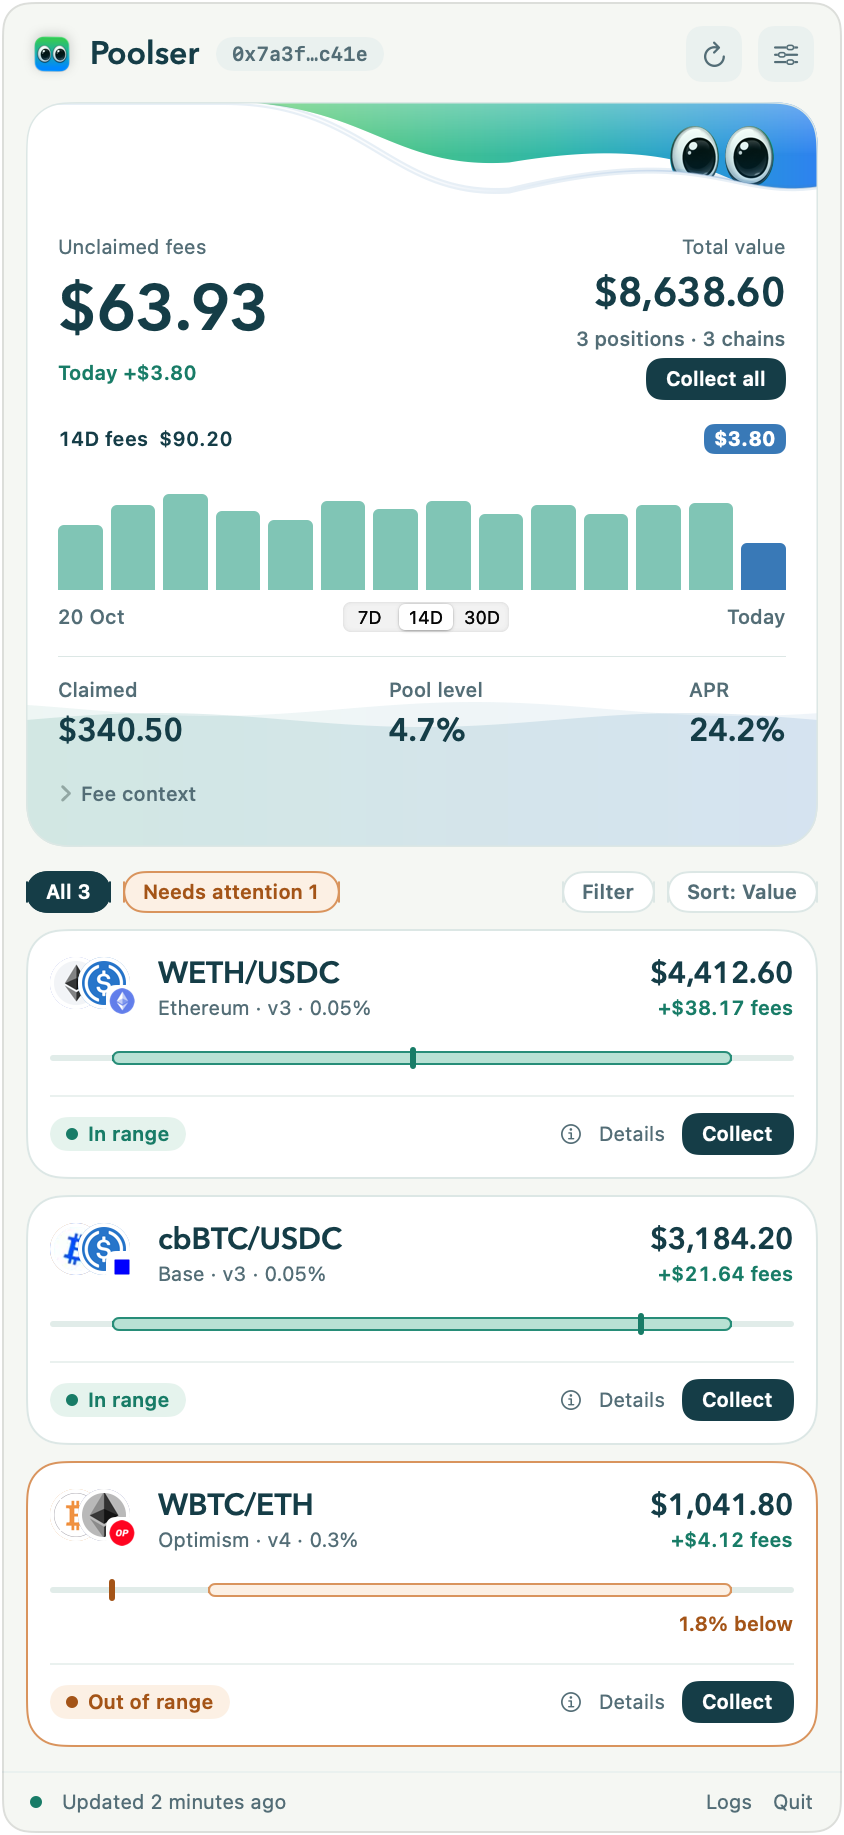
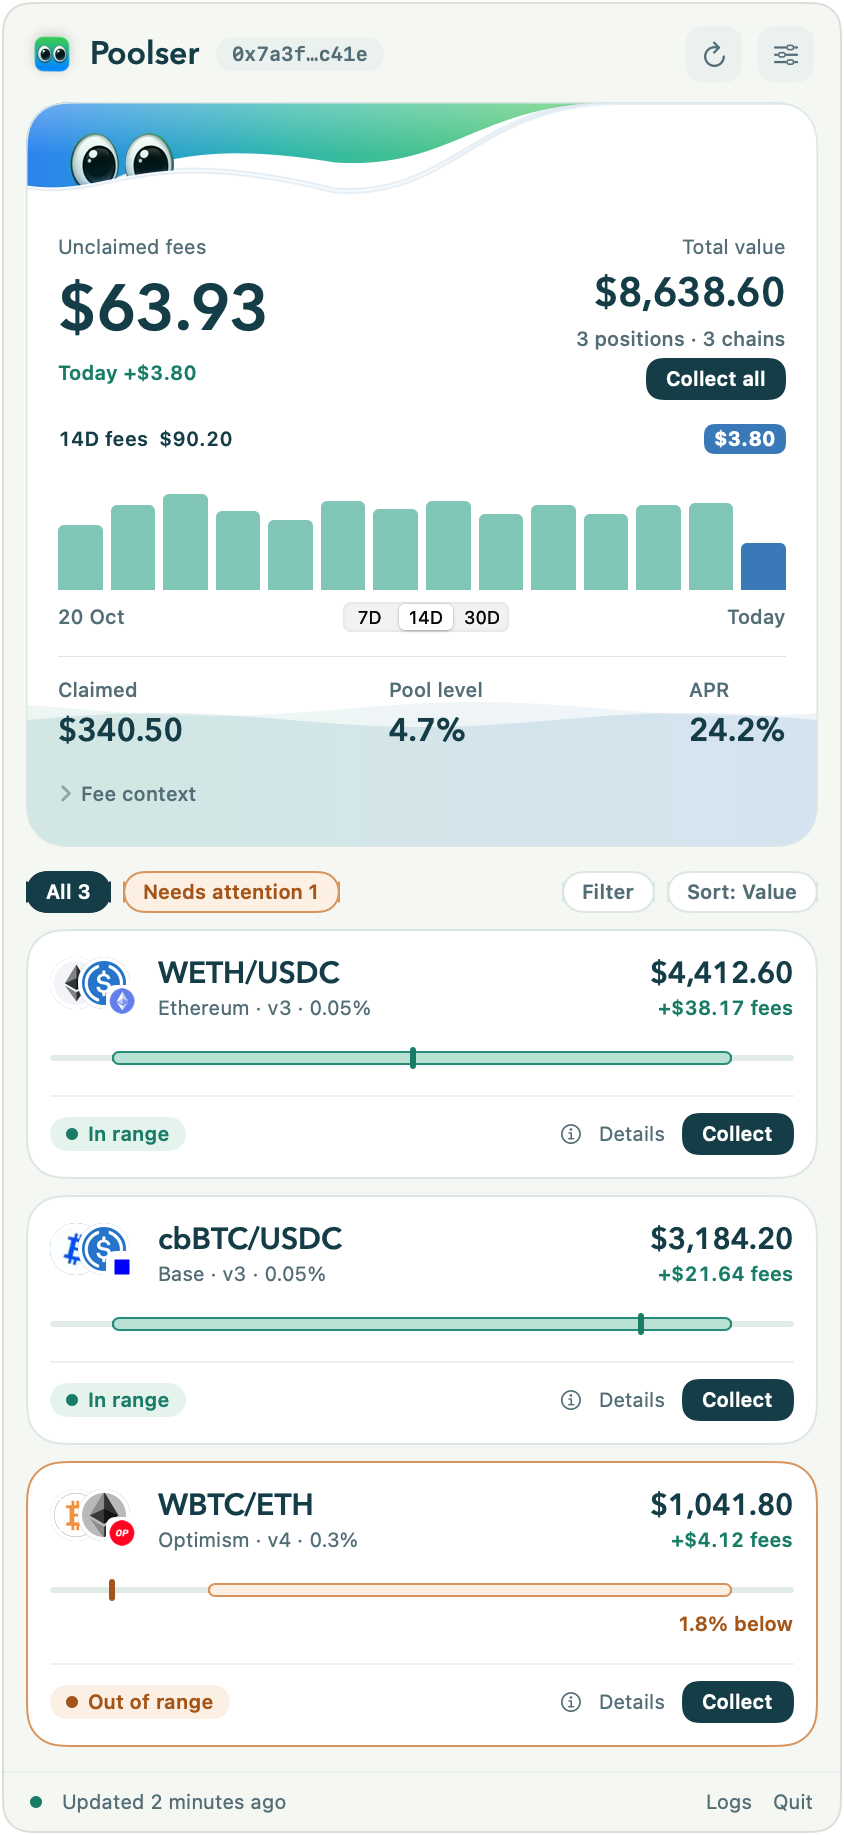
refactor: place poolser character behind the left crest

Changed region(s): [[0.0308, 0.0311, 0.9858, 0.1243]]

diff --git a/Sources/PoolserKit/Presentation/PoolBrand.swift b/Sources/PoolserKit/Presentation/PoolBrand.swift
@@ -29,7 +29,7 @@ public struct PoolBrandRibbon: View {
         let height: CGFloat = compact ? 36 : 54
         let eyesWidth: CGFloat = compact ? 34 : 52
         GeometryReader { geometry in
-            ZStack(alignment: .topTrailing) {
+            ZStack(alignment: .topLeading) {
                 CrestShape(front: false)
                     .fill(LinearGradient(
                         stops: [
@@ -37,15 +37,15 @@ public struct PoolBrandRibbon: View {
                             .init(color: Color(red: 0.19, green: 0.72, blue: 0.65), location: 0.66),
                             .init(color: Color(red: 0.18, green: 0.51, blue: 0.94), location: 1)
                         ],
-                        startPoint: .leading, endPoint: .trailing
+                        startPoint: .trailing, endPoint: .leading
                     ))
                 // A low highlight rounds the crest without turning the whole card glossy.
                 CrestShape(front: false)
                     .fill(LinearGradient(colors: [.white.opacity(0.3), .clear, .clear],
                                          startPoint: .top, endPoint: .bottom))
                 PoolEyes(width: eyesWidth)
-                    .padding(.top, height * 0.22)
-                    .padding(.trailing, compact ? 16 : 22)
+                    .padding(.top, height * 0.29)
+                    .padding(.leading, compact ? 16 : 22)
                     .opacity(appeared || !animated ? 1 : 0)
                     .animation(reduceMotion ? nil : .easeOut(duration: 0.2).delay(0.22), value: appeared)
                 CrestShape(front: true)
@@ -58,7 +58,7 @@ public struct PoolBrandRibbon: View {
                                            startPoint: .leading, endPoint: .trailing), lineWidth: 0.8)
             }
             .frame(width: geometry.size.width, height: height)
-            .scaleEffect(x: 1, y: reduceMotion || appeared || !animated ? 1 : 0.2, anchor: .topTrailing)
+            .scaleEffect(x: 1, y: reduceMotion || appeared || !animated ? 1 : 0.2, anchor: .topLeading)
         }
         .frame(height: height)
         .opacity(appeared || !animated ? 1 : 0)
@@ -83,12 +83,15 @@ private struct CrestShape: Shape {
             p.addLine(to: CGPoint(x: r.minX, y: r.minY))
         }
         p.closeSubpath()
-        return p
+        return p.applying(CGAffineTransform(a: -1, b: 0, c: 0, d: 1, tx: r.width, ty: 0))
     }
 }
 
 private struct CrestEdge: Shape {
-    func path(in r: CGRect) -> Path { Self.curve(in: r, front: true) }
+    func path(in r: CGRect) -> Path {
+        Self.curve(in: r, front: true)
+            .applying(CGAffineTransform(a: -1, b: 0, c: 0, d: 1, tx: r.width, ty: 0))
+    }
 
     static func curve(in r: CGRect, front: Bool) -> Path {
         var p = Path()

diff --git a/Sources/PoolserKit/Widget/PortfolioWidgetViews.swift b/Sources/PoolserKit/Widget/PortfolioWidgetViews.swift
@@ -28,7 +28,7 @@ public struct PortfolioWidgetView: View {
         ZStack(alignment: .topTrailing) {
             PoolBrandRibbon(animated: false, compact: true)
                 .padding(.top, -16)
-                .padding(.trailing, -16)
+                .padding(.horizontal, -16)
             if let snapshot, snapshot.positionCount > 0 {
                 switch size {
                 case .small:
@@ -75,7 +75,8 @@ private struct Summary: View {
     var body: some View {
         VStack(alignment: .leading, spacing: 0) {
             Header(walletName: snapshot.walletName, palette: palette)
-                .padding(.trailing, 24)
+                .padding(.leading, 52)
+                .padding(.top, 8)
             Spacer(minLength: 5)
             Text("Unclaimed fees")
                 .font(.caption2).foregroundStyle(palette.secondaryText)
@@ -109,7 +110,6 @@ private struct Header: View {
 
     var body: some View {
         HStack(spacing: 5) {
-            PoolEyes().scaleEffect(0.8).frame(width: 16, height: 12)
             Text(walletName ?? "Poolser")
                 .font(PoolTypography.heading(12, relativeTo: .caption))
                 .foregroundStyle(palette.primaryText)

diff --git a/docs/BRAND.md b/docs/BRAND.md
@@ -24,7 +24,7 @@ Green conveys earnings or an active range. Amber conveys attention; retain a tex
 
 Use Avenir Next Demi Bold for the wordmark and prominent financial figures, with tabular digits. Use the native text face for labels and controls so accessibility sizes remain familiar. Keep addresses and technical identifiers monospaced. Reserve bold for the amount and section hierarchy.
 
-Use an 8-point spacing rhythm, 16–20-point continuous card corners, hairline separators and capsule range tracks. The signature is Soft Crest: a broad, softly layered green-to-turquoise-to-blue wave at the upper right, with the original character peeking from behind its front edge. The crest uses the brighter icon colours; data, text and controls retain the semantic palette above. It is decorative, hidden from accessibility, and does not intercept interaction. Do not substitute decoration for the existing fee-pool level visualization.
+Use an 8-point spacing rhythm, 16–20-point continuous card corners, hairline separators and capsule range tracks. The signature is Soft Crest: a broad, softly layered green-to-turquoise-to-blue wave at the upper left, with the original character peeking from behind its front edge. The crest uses the brighter icon colours; data, text and controls retain the semantic palette above. It is decorative, hidden from accessibility, and does not intercept interaction. Do not substitute decoration for the existing fee-pool level visualization.
 
 ## Information and interaction
 
@@ -60,8 +60,8 @@ Reference captures from the actual shared views (demo data): [macOS light](scree
 
 ### Soft Crest character
 
-Use the original icon artwork for the character. `Sources/PoolserKit/Resources/PoolserCharacter.png` is an unmodified copy of the 1024-pixel app icon, shared by macOS, iOS and widgets through the package resource bundle. `PoolCharacterArtwork` loads the PNG explicitly from its bundle URL on each platform. `PoolEyes` samples the eye region and masks each eyeball at display time, preserving the original glossy pupils, pale rims and reflected highlights. Do not redraw the eyes with ellipses and dots or substitute emoji. The front crest partly covers the eyes; they belong inside the coloured pool, never floating on the white card. `PoolBrandMark` uses the same original icon.
+Use the original icon artwork for the character. `Sources/PoolserKit/Resources/PoolserCharacter.png` is an unmodified copy of the 1024-pixel app icon, shared by macOS, iOS and widgets through the package resource bundle. `PoolCharacterArtwork` loads the PNG explicitly from its bundle URL on each platform. `PoolEyes` samples the eye region and masks each eyeball at display time, preserving the original glossy pupils, pale rims and reflected highlights. Do not redraw the eyes with ellipses and dots or substitute emoji. Place the character at the upper left, preserving its original gaze down and to the right toward the financial data. Mirror the wave geometry, never the eye artwork. The front white crest overlaps roughly the lower quarter of the eyes so the character peeks from inside the blue-green pool and watches the figures; the eyes must never float on the white card. `PoolBrandMark` uses the same original icon.
 
-Use a satin crest with a soft rim and restrained depth. Avoid multiple shiny glass folds: the selected direction is Soft Crest. Widgets use a shorter crest and smaller character to keep titles and data readable. The existing fee-pool filling animation remains separate and unchanged.
+Use a satin crest with a soft rim and restrained depth. Avoid multiple shiny glass folds: the selected direction is Soft Crest. Widgets use a shorter crest and smaller character to keep titles and data readable. Their title sits to the right of the character, with space reserved for the eyes rather than a duplicate eye mark. The existing fee-pool filling animation remains separate and unchanged.
 
 For a focused reference export, set `POOLSER_SCREENSHOT_FILTER=redesign` with `POOLSER_SCREENSHOTS`. This captures the crest, original character, summary and widgets without waiting for external token icons. Use `popover` to capture only the Mac panels, or omit the filter for the complete screenshot set.
